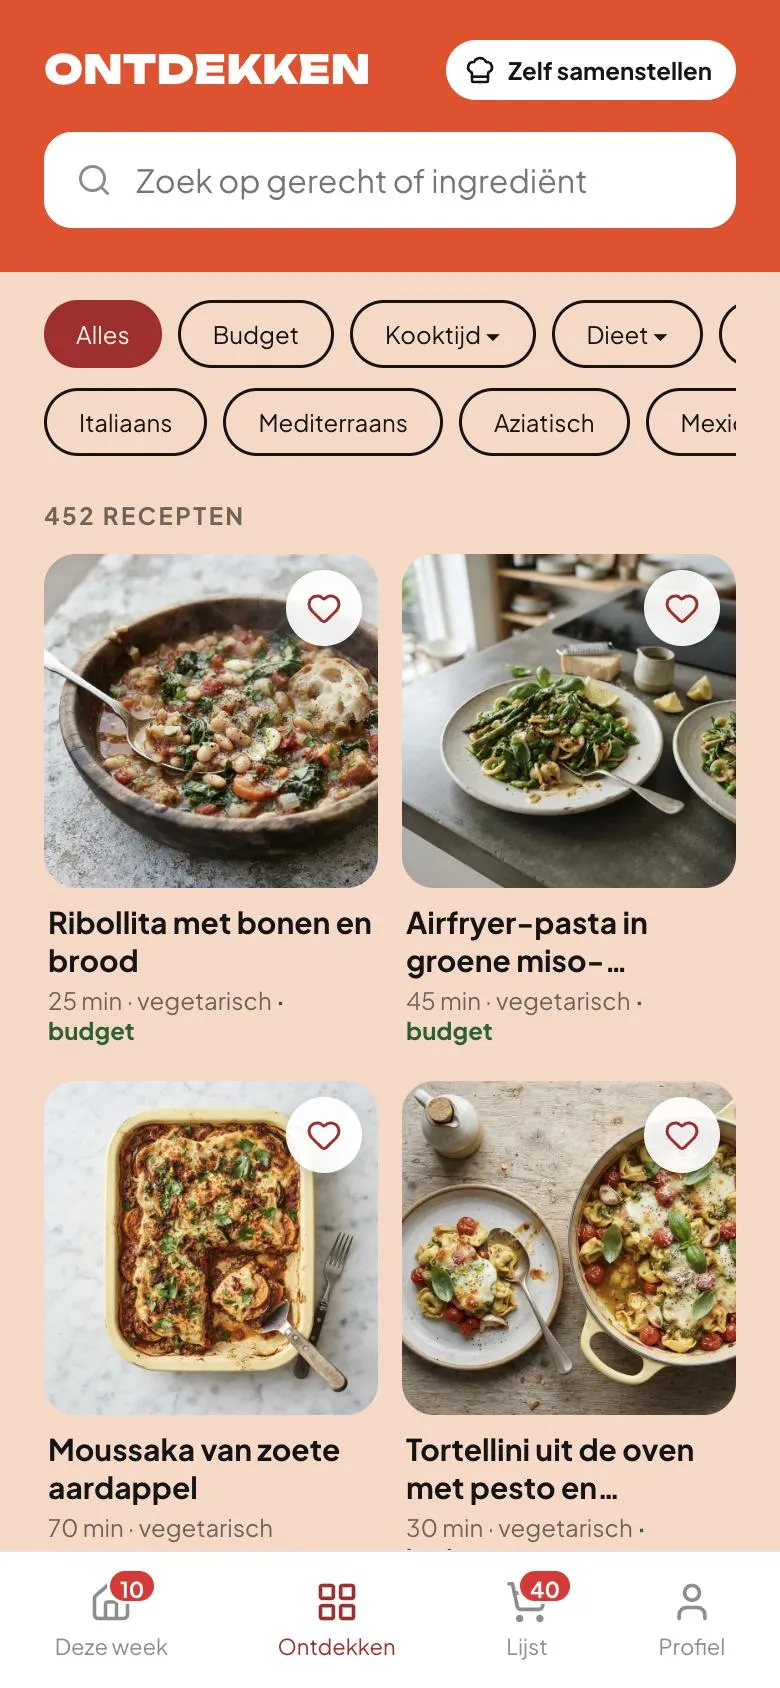
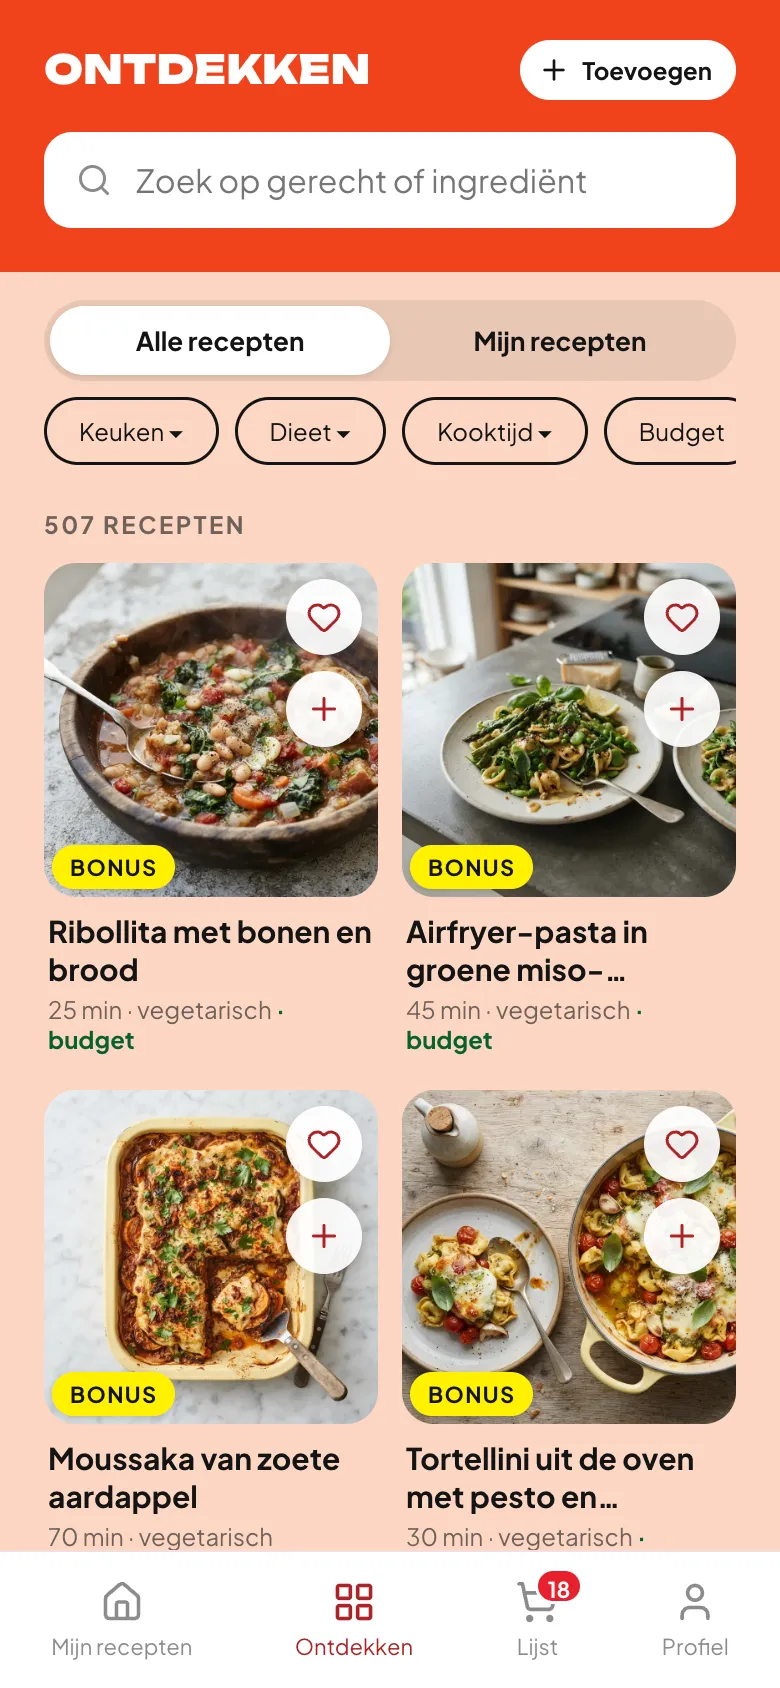
Uitleg: nieuwe schermafbeeldingen van Mijn recepten en Ontdekken (#122)
Sinds #121 heet de eerste tab Mijn recepten en heeft Ontdekken naast het
hartje een plusje. De kaarten Zoek, Bewaar, Zet op je lijst en Te koken
toonden nog het oude scherm. deze-week.webp is mijn-recepten.webp
geworden; de uitgelichte vlakken zijn opnieuw gezet. Bij Bewaar is nu het
hartje met het plusje uitgelicht, want de tekst noemt ze allebei.

diff --git a/app/src/components/Uitleg.tsx b/app/src/components/Uitleg.tsx
@@ -1,7 +1,7 @@
 import { useEffect, useRef, useState } from 'react'
 import { Button, IconButton } from '../ds'
 import ontdekken from '../assets/uitleg/ontdekken.webp'
-import dezeWeek from '../assets/uitleg/deze-week.webp'
+import mijnRecepten from '../assets/uitleg/mijn-recepten.webp'
 import voorraadkast from '../assets/uitleg/voorraadkast.webp'
 import lijst from '../assets/uitleg/lijst.webp'
 
@@ -37,25 +37,25 @@ const KAARTEN: Kaart[] = [
     kop: 'Zoek',
     tekst: 'Honderden recepten. Zoek op gerecht of ingrediënt, of filter op keuken, tijd, budget en dieet.',
     beeld: ontdekken, alt: 'Het scherm Ontdekken, met de zoekbalk en de filters uitgelicht.',
-    verhouding: 1688 / 780, licht: { x: 0.03, y: 0.068, b: 0.94, h: 0.21 }, rond: 18,
+    verhouding: 1688 / 780, licht: { x: 0.031, y: 0.069, b: 0.938, h: 0.217 }, rond: 18,
   },
   {
     kop: 'Bewaar',
     tekst: 'Tik op het hartje en het recept staat bij je favorieten. Met het plusje zet je het op je lijst.',
-    beeld: ontdekken, alt: 'Een receptkaart in Ontdekken, met het hartje uitgelicht.',
-    verhouding: 1688 / 780, licht: { x: 0.352, y: 0.331, b: 0.124, h: 0.0575 }, rond: 999,
+    beeld: ontdekken, alt: 'Een receptkaart in Ontdekken, met het hartje en het plusje uitgelicht.',
+    verhouding: 1688 / 780, licht: { x: 0.354, y: 0.338, b: 0.123, h: 0.111 }, rond: 999,
   },
   {
     kop: 'Zet op je lijst',
     tekst: 'Kies je recepten bij Nog bestellen. Pinch zet alle ingrediënten op één boodschappenlijst en telt dubbele bij elkaar op.',
-    beeld: dezeWeek, alt: 'Het scherm Mijn recepten, met een recept dat op je lijst staat uitgelicht: gele rand en de knop Op je lijst.',
-    verhouding: 1688 / 780, licht: { x: 0.05, y: 0.249, b: 0.44, h: 0.293 }, rond: 26,
+    beeld: mijnRecepten, alt: 'Het scherm Mijn recepten, met een recept dat op je lijst staat uitgelicht: gele rand en de knop Op je lijst.',
+    verhouding: 1688 / 780, licht: { x: 0.049, y: 0.303, b: 0.444, h: 0.294 }, rond: 26,
   },
   {
     kop: 'Te koken',
     tekst: 'Na het bestellen staan je recepten bij Te koken. Gekookt? Tik op het kruisje, dan vind je het terug bij Bewaard.',
-    beeld: dezeWeek, alt: 'Het scherm Mijn recepten, met de knoppen bovenaan uitgelicht.',
-    verhouding: 1688 / 780, licht: { x: 0.04, y: 0.16, b: 0.61, h: 0.055 }, rond: 999,
+    beeld: mijnRecepten, alt: 'Het scherm Mijn recepten, met de knoppen Te koken, Nog bestellen en Bewaard uitgelicht.',
+    verhouding: 1688 / 780, licht: { x: 0.046, y: 0.139, b: 0.785, h: 0.05 }, rond: 999,
   },
   {
     kop: 'Voorraadkast',
